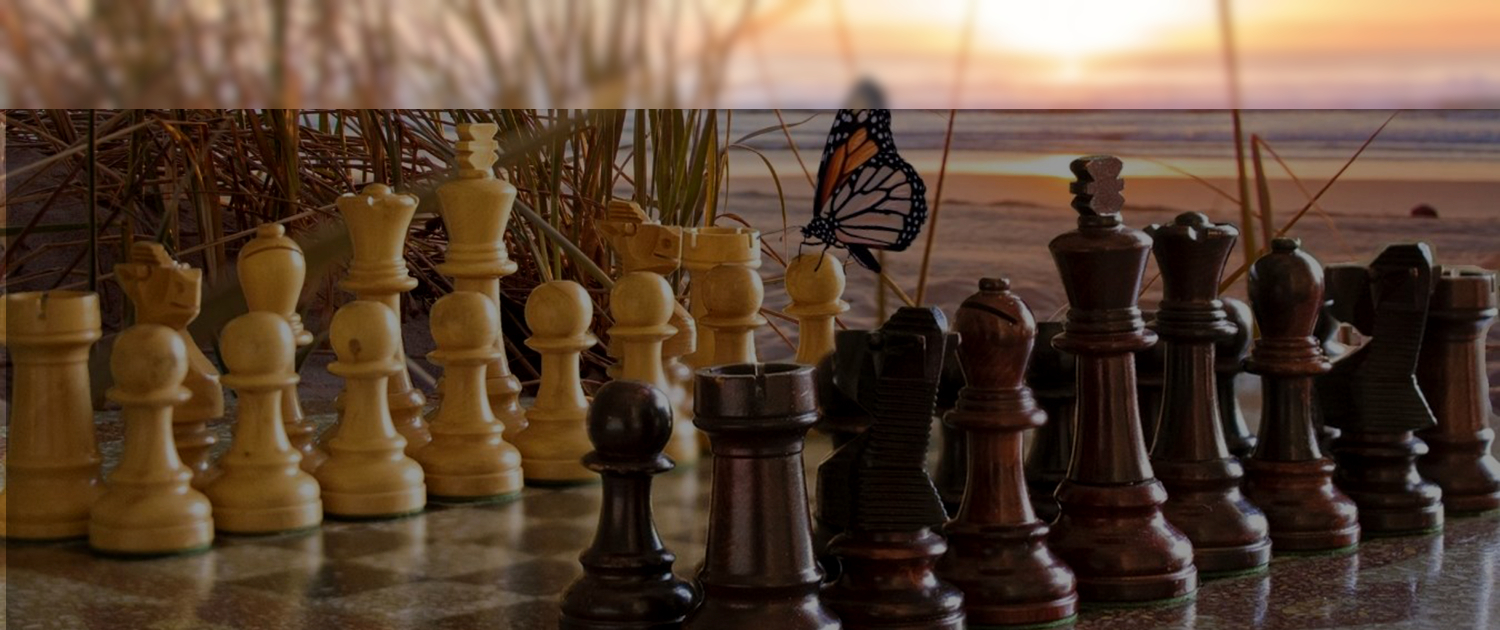
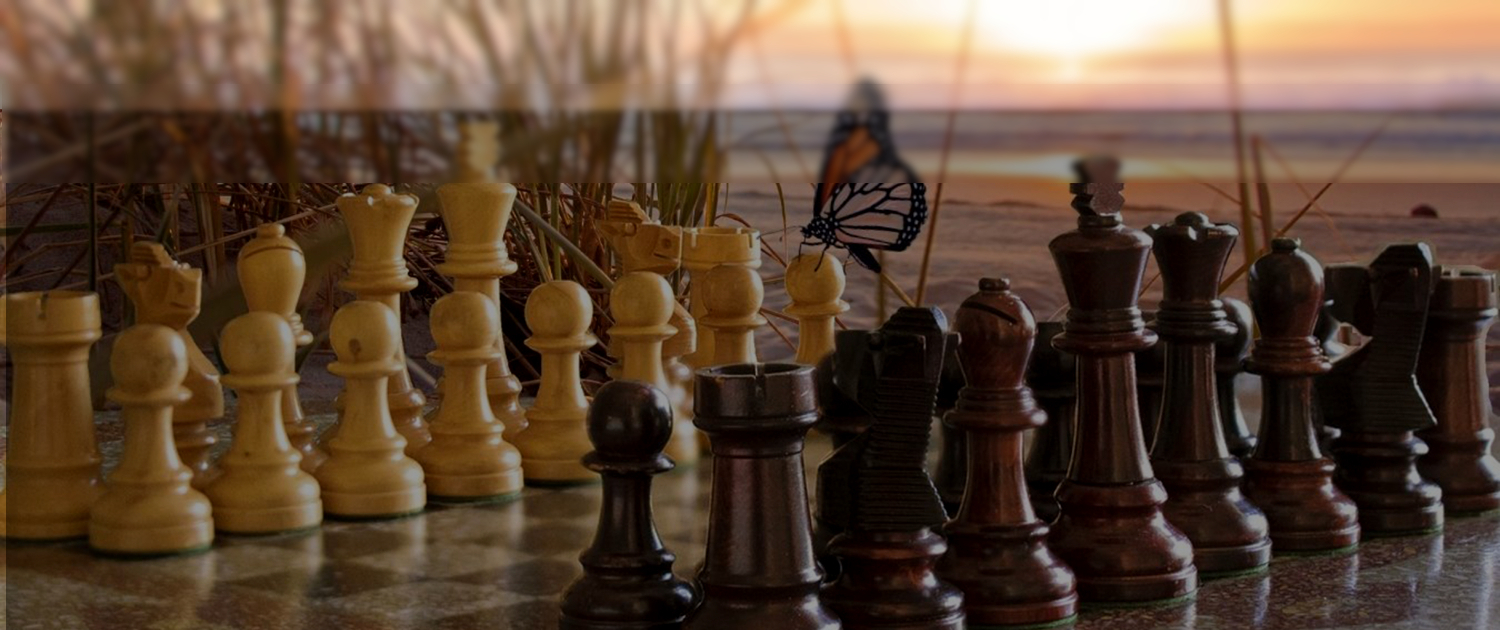
cehegin

diff --git a/src/four.html b/src/four.html
@@ -1,0 +1,24 @@
+<!DOCTYPE html>
+<html lang="es">
+    <head>
+        <meta charset="UTF-8" />
+        <meta http-equiv="X-UA-Compatible" content="IE=edge" />
+        <meta name="viewport" content="width=device-width, initial-scale=1.0" />
+        <title>Document</title>
+        <link
+            rel="stylesheet"
+            type="text/css"
+            href="./assets/styles/main.scss"
+        />
+        <!-- do not remove this line! -->
+        <title>UOC Boilerplate</title>
+    </head>
+    <body>
+        <include src="./views/header.html"></include>
+
+        <include src="./views/footer.html"></include>
+
+        <script type="module" src="./assets/scripts/main.js"></script>
+        <!-- do not remove this line! -->
+    </body>
+</html>

diff --git a/src/index.html b/src/index.html
@@ -11,11 +11,16 @@
 </head>
 <body>
     <div class="contenedor">
-<img src="./assets/images/fondo.jpg" class="imagen">
+
 <img src="./assets/images/logo.png" class="logo1" id="logo">
 
-  <include src="./views/navbar.html"></include>
-   
+  <!-- <include src="./views/navbar.html"></include> --> 
+     
+ <img src="./assets/images/fondo.jpg" class="imagen">   
+ <div class="navega2">
+    <include src="./views/header.html"></include>
+ </div>
+ 
       <div class="descripcion">
         <h1>Club de Ajedrez</h1> <h1>"El Peón de la obra"</h1>
         <p>En este club podrás desarrollar todo tipo de actividades alrededor del ajedrez.</p>

diff --git a/src/views/footer.html b/src/views/footer.html
@@ -7,7 +7,14 @@
   <img src="./assets/images/logo.png" class="footer2__logo2">
 </div>
 <div>
-  <include src="./views/navbar2.html"></include>
+  <nav class="navega2">
+    <ul>
+        <li class="menu__item"><a href="./index.html">Front Page</a></li>
+         <li class="menu__item"><a href="./two.html">Page Two</a></li>
+        <li class="menu__item"><a href="./three.html">Page Three</a></li>
+        <li class="menu__item"><a href="./four.html">Page Four</a></li>
+    </ul>
+</nav>
 </div>
   <div class="footer2__social">
     <i class="fab fa-google-plus footer2__social--icono"></i>

diff --git a/src/assets/styles/layouts/_footer.scss b/src/assets/styles/layouts/_footer.scss
@@ -2,18 +2,19 @@
   display: flex;
   align-items: center;
   justify-content: center;
-   height: 6em;
-
+  height: 2.5em;
+  margin-top:6em;
     
 }
 
 .footer2 {
-  
-  display: grid;
+    display: grid;
   grid-template-columns: 1fr 4fr 1fr;
   width: 80%;
-  margin: auto;
-  border-top: 1px solid gray;
+  padding-top: 20px;
+  margin: 2.5em auto;
+  border-top: 1px solid lightgray;
+  
 
 
   & div {
@@ -26,7 +27,6 @@
   &__logo2 {
     max-width: 200px;
     max-height: 100px;
-    background-color: white;
     
   }
 

diff --git a/src/views/header.html b/src/views/header.html
@@ -4,7 +4,13 @@
     </div>
     <div></div>
     <div>
-       <include src="./views/navbar.html"></include>
+       <nav class="navega2 navega1">
+        <ul>
+             <li class="menu__item"><a href="./two.html">Page Two</a></li>
+            <li class="menu__item"><a href="./three.html">Page Three</a></li>
+            <li class="menu__item"><a href="./four.html">Page Four</a></li>
+        </ul>
+    </nav>
     </div>
 
 </div>

diff --git a/src/assets/styles/layouts/_header.scss b/src/assets/styles/layouts/_header.scss
@@ -1,7 +1,7 @@
 @supports (display: grid) {
   .contenedor {
     display: grid;
-    grid-template-rows: 8vh 28vh 40vh;
+    grid-template-rows: 8vh 25vh 35vh;
     grid-template-columns: 3fr 4fr 3fr;
   }
 
@@ -16,8 +16,8 @@
   .contenedor3 {
     display: grid;
     grid-template-columns: 3fr 4fr 3fr;
-    height:8vh;
     width: 99%;
+    height:8vh;
 
     & div {
       display: flex;

diff --git a/src/assets/styles/layouts/_index.scss b/src/assets/styles/layouts/_index.scss
@@ -11,6 +11,7 @@
   width: 100%;
   height: 100%;
   object-fit: cover;
+  background-color: white;
 }
 
 @supports (display:grid) {
@@ -46,7 +47,10 @@
     grid-column: 3;
   }
 
-
+  .navega2 {
+    grid-row: 1;
+    grid-column: 1/-1;
+  }
 
   @media screen and (max-width:$mqMinWidth) {
 
